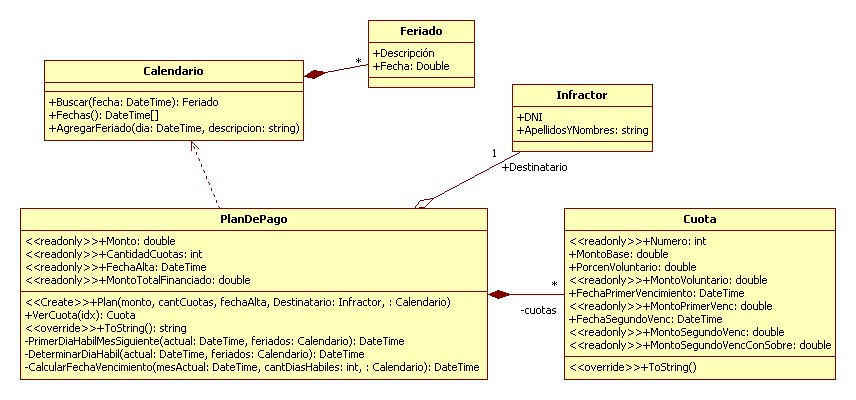
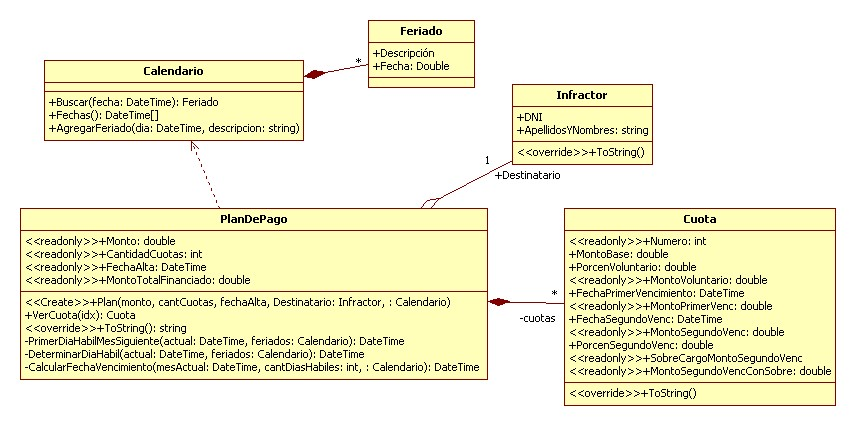
actualizando

Changed region(s): [[0.0, 0.45, 0.5771, 0.96], [0.5164, 0.48, 1.0, 0.96], [0.0304, 0.03, 0.7593, 0.45]]

diff --git a/Lab2Guia5_fechas/Ej1_plan_de_pagos/Modelo/Cuota.cs b/Lab2Guia5_fechas/Ej1_plan_de_pagos/Modelo/Cuota.cs
@@ -9,7 +9,15 @@ namespace Ej1_plan_de_pagos.Modelo
     class Cuota
     {
         public int Numero { get; set; }
+
+        /// <summary>
+        /// monto base fijado para cada cuota - es el  valor del total sobre  la cantidad de cuotas
+        /// </summary>
         public double MontoBase { get; set; }
+
+        /// <summary>
+        /// Porcentaje que se aplica al valor base 
+        /// </summary>
         public double PorcenVoluntario { get; set; }
         public double MontoVoluntario
         {
@@ -18,6 +26,10 @@ namespace Ej1_plan_de_pagos.Modelo
                 return MontoBase * PorcenVoluntario / 100;
             }
         }
+
+        /// <summary>
+        /// Fecha del primer vencimiento, los primeros ocho días hábiles del siguiente mes.
+        /// </summary>
         public DateTime FechaPrimerVenc { get; set; }
         public double MontoPrimerVenc 
         {
@@ -26,6 +38,12 @@ namespace Ej1_plan_de_pagos.Modelo
                 return MontoBase + MontoVoluntario;
             }
         }
+
+        public double PorcenSegundoVenc { get; set; }
+
+        /// <summary>
+        /// Fecha del segundo vencimiento, los primeros 15 días hábiles a partir del primer vencimiento
+        /// </summary>
         public DateTime FechaSegundoVenc { get; set; }
 
         public double MontoSegundoVenc 
@@ -40,7 +58,7 @@ namespace Ej1_plan_de_pagos.Modelo
         {
             get
             {
-                return MontoSegundoVenc * 20 / 100;
+                return MontoSegundoVenc * PorcenSegundoVenc / 100;
             }
         }
 
@@ -54,13 +72,14 @@ namespace Ej1_plan_de_pagos.Modelo
 
         public override string ToString()
         {
-            string linea = $"{$"Cuota número: {Numero} -  Valor Cuota: ",-35}${MontoBase:f2}\r\n" +
-                           
-                           $"  {$"Donación voluntaria {PorcenVoluntario}% -  ",-33}${MontoVoluntario,10:f2}" +
+            string linea = $"{$"Cuota número: {Numero} -  Valor Cuota: ",-35}${MontoBase,15:f2}\r\n" +                           
+                           $"  {$"Donación voluntaria ({PorcenVoluntario}%) ",-33}${MontoVoluntario,15:f2}" +
                            "\r\n" +
-                           $"  {$"Primer Vencimiento ({FechaPrimerVenc:dd/MM/yy})",-33}${MontoPrimerVenc,10:f2}\r\n" +
+                           $"  {$"Primer Venc. ({FechaPrimerVenc:dd/MM/yy})",-33}${MontoPrimerVenc,15:f2}\r\n" +
                            "\r\n"+
-                           $"  {$"Segundo Vencimiento ({FechaSegundoVenc:dd/MM/yy})",-33}${MontoSegundoVenc,10:f2}\r\n";
+                           $"  {$"Base. segundo Venc. ",-33}${MontoSegundoVenc,15:f2}\r\n" +
+                           $"  {$"Rec. segundo Venc. ({PorcenSegundoVenc:f2}%) ",-33}${SobreCargoMontoSegundoVenc,15:f2}\r\n"+
+                           $"  {$"Segundo Venc. ({FechaSegundoVenc:dd/MM/yy})",-33}${MontoSegundoVenc,15:f2}\r\n";
             //faltan cosas
 
             return linea;

diff --git a/Lab2Guia5_fechas/Ej1_plan_de_pagos/Modelo/PlanDePago.cs b/Lab2Guia5_fechas/Ej1_plan_de_pagos/Modelo/PlanDePago.cs
@@ -46,6 +46,7 @@ namespace Ej1_plan_de_pagos.Modelo
                     MontoBase = montoCuota,
                     PorcenVoluntario = 5,
                     FechaPrimerVenc = primerVenc,
+                    PorcenSegundoVenc=20,
                     FechaSegundoVenc = segundoVenc
                 };
 
@@ -105,7 +106,9 @@ namespace Ej1_plan_de_pagos.Modelo
 
         public string VerDetalle() 
         {
-            string linea = "";
+            string linea = $"Destinatario: {Destinatario}\r\n" +
+                            "\r\n";
+
             foreach (Cuota cuota in cuotas)
             {
                 linea += cuota + "\r\n";

diff --git a/Lab2Guia5_fechas/Ej1_plan_de_pagos/Modelo/Infractor.cs b/Lab2Guia5_fechas/Ej1_plan_de_pagos/Modelo/Infractor.cs
@@ -10,5 +10,10 @@ namespace Ej1_plan_de_pagos.Modelo
     {
         public int DNI { get; set; }
         public string ApelldosyNombres { get; set; }
+
+        public override string ToString()
+        {
+            return $"{ApelldosyNombres}({DNI})";
+        }
     }
 }
